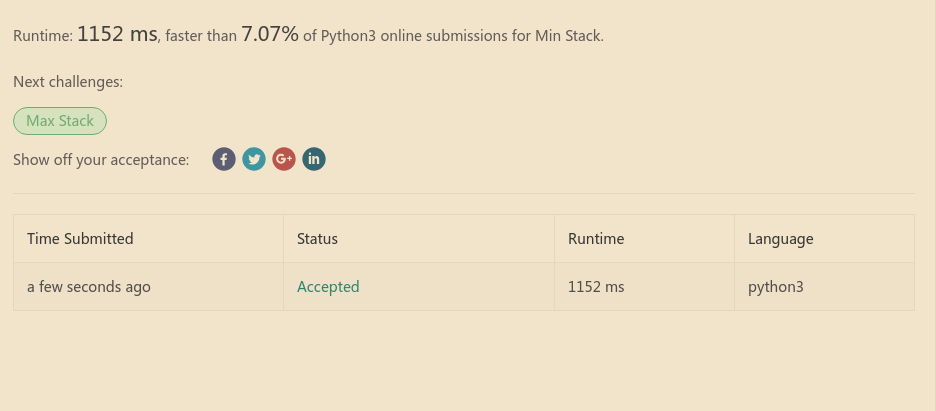
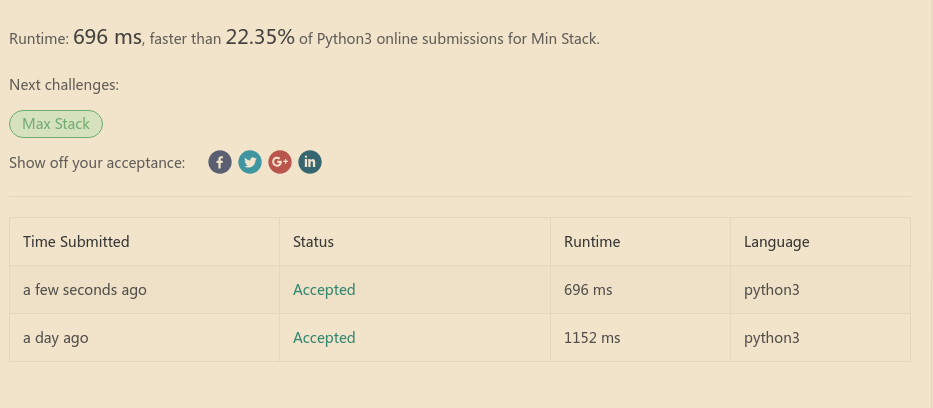
Min Stack(Problem 155 - AC) optimization

diff --git a/leetcode/155/Min Stack.py b/leetcode/155/Min Stack.py
@@ -52,7 +52,7 @@ class MinStack:
         """
         :rtype: int
         """
-        return sorted(self.stack)[0]
+        return min(self.stack)
 
 
 class TestMinStack(unittest.TestCase):
